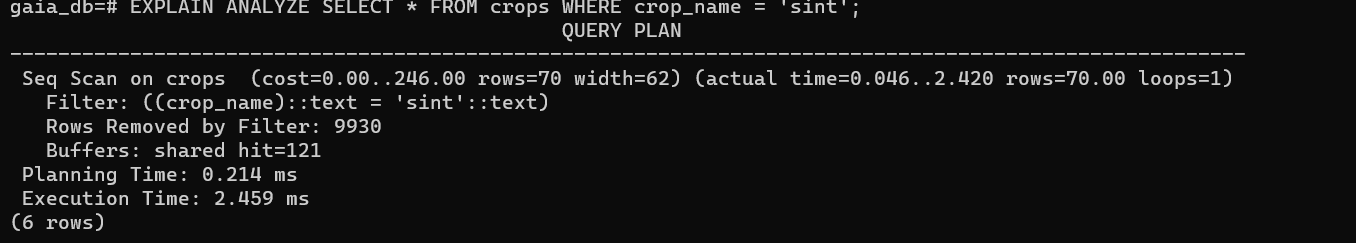
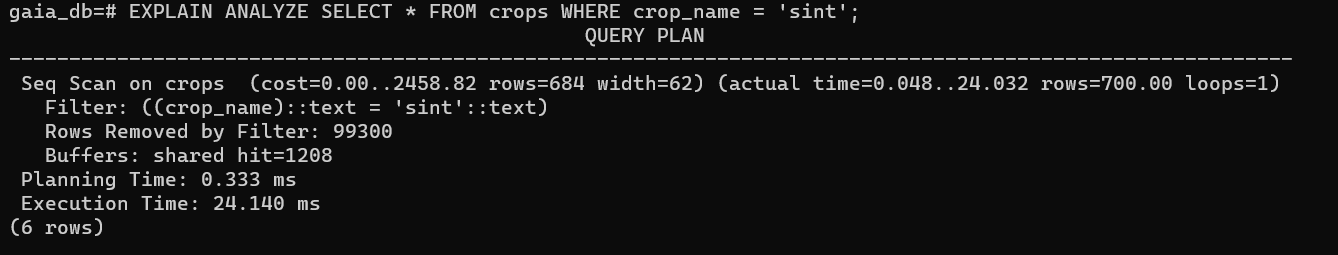
activity 5

diff --git a/activity5/report.md b/activity5/report.md
@@ -1,8 +1,8 @@
 # 1
-Initial Data Insertion Time (100,000 rows): 4m 9s 62ms  
-Query Execution Time (Non-Indexed): 2.459 ms  
-Query Execution Time (Indexed): 0.364 ms  
-Single Row Insertion Time (With Index): 37.572 ms  
+Initial Data Insertion Time (100,000 rows): 6m 10s 70ms  
+Query Execution Time (Non-Indexed): 24.140 ms  
+Query Execution Time (Indexed): 1.538 ms  
+Single Row Insertion Time (With Index): 33.066 ms  
 Answer the following questions:  
 
 # 2
